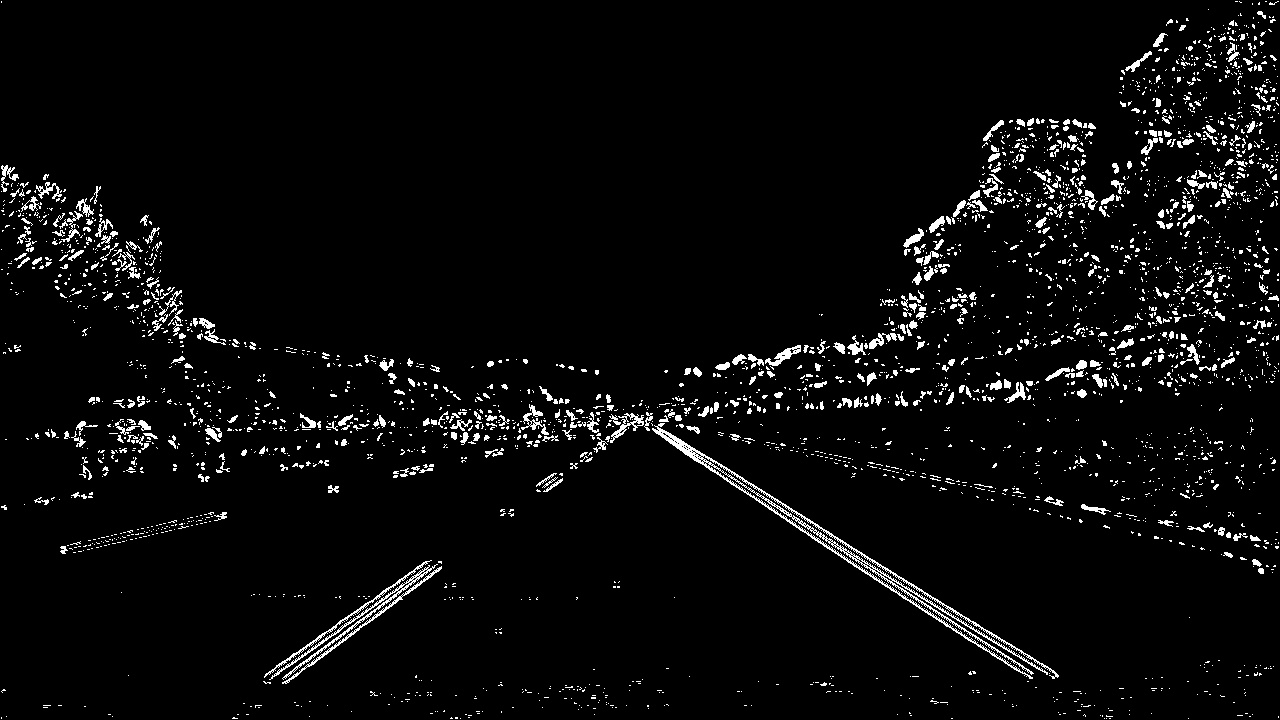
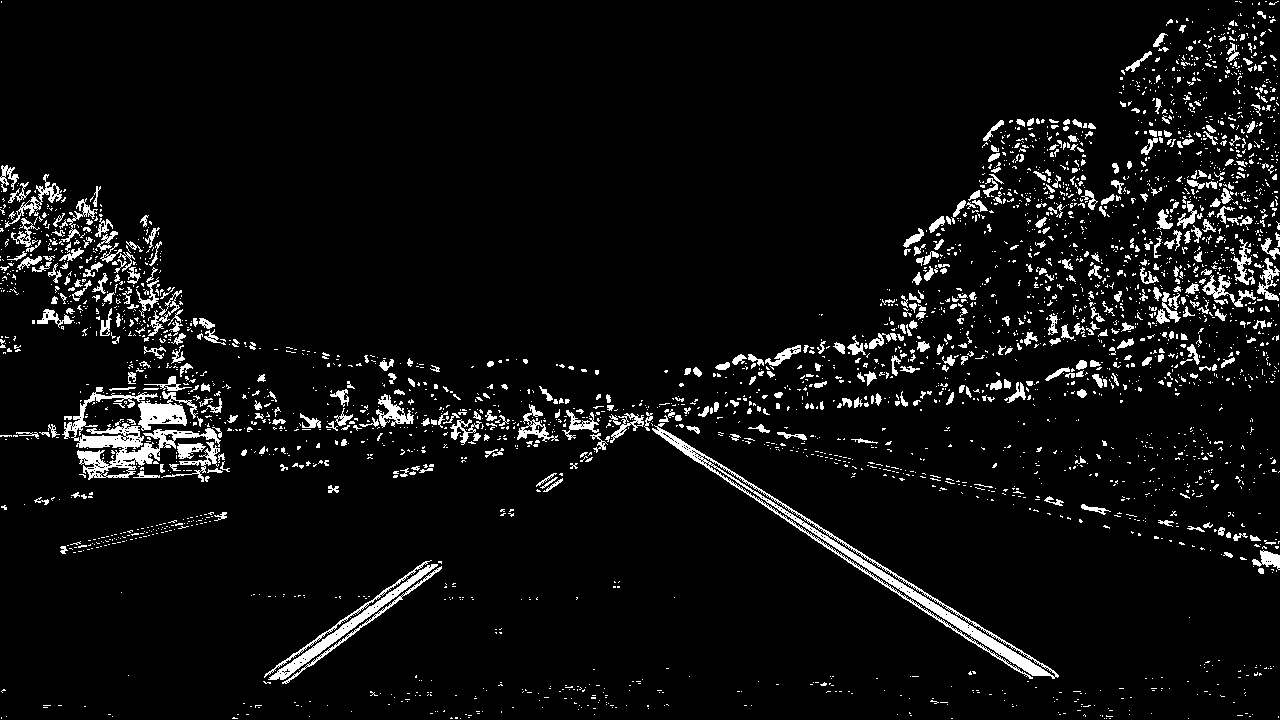
add HLS color space thresholding

diff --git a/main.py b/main.py
@@ -45,9 +45,10 @@ for idx, fname in enumerate(images):
     grady = cnthresh.abs_sobel_thresh(img, orient='y', sobel_kernel=ksize, thresh=(20, 100))
     mag_binary = cnthresh.mag_thresh(img, sobel_kernel=3, mag_thresh=(30, 100))
     dir_binary = cnthresh.dir_threshold(img, sobel_kernel=15, thresh=(0.7, 1.3))
+    color_binary = cnthresh.color_threshold(img, thresh=(170, 255))
 
     combined = np.zeros_like(dir_binary, dtype='uint8')
-    combined[((gradx == 1) & (grady == 1)) | ((mag_binary == 1) & (dir_binary == 1))] = 255
+    combined[((gradx == 1) & (grady == 1)) | ((mag_binary == 1) & (dir_binary == 1)) | (color_binary == 1)] = 255
 
     f, (ax1, ax2) = plt.subplots(1, 2, figsize=(24, 9))
     f.tight_layout()
@@ -81,16 +82,18 @@ ax2.imshow(warped_im)
 
 plt.show()
 
-# Plot the result
-# f, (ax1, ax2) = plt.subplots(1, 2, figsize=(24, 9))
-# f.tight_layout()
-# ax1.imshow(image)
-# ax1.set_title('Original Image', fontsize=50)
-# ax2.imshow(combined, cmap='gray')
-# ax2.set_title('Combined Thresholded Image', fontsize=50)
-# plt.subplots_adjust(left=0., right=1, top=0.9, bottom=0.)
-#
-# plt.show()
+
+# Detect lane pixels and fit to find the lane boundary
+
+
+# Warp the detected lane boundaries back onto the original image
+
+
+# Output visual display of the lane boundaries and numerical estimation of lane curvature and vehicle position
+
+
+
+
 
 
 print('completed')

diff --git a/CarND/thresholding.py b/CarND/thresholding.py
@@ -90,3 +90,15 @@ def dir_threshold(img, sobel_kernel=3, thresh=(0, np.pi / 2)):
 
     # 6) Return this mask as your binary_output image
     return binary_output
+
+
+def color_threshold(img, thresh=(170, 255)):
+    # Convert to HLS color space and separate the S channel
+    hls = cv2.cvtColor(img, cv2.COLOR_RGB2HLS)
+    s_channel = hls[:, :, 2]
+
+    s_binary = np.zeros_like(s_channel)
+    s_binary[(s_channel >= thresh[0]) & (s_channel <= thresh[1])] = 1
+
+    return s_binary
+
